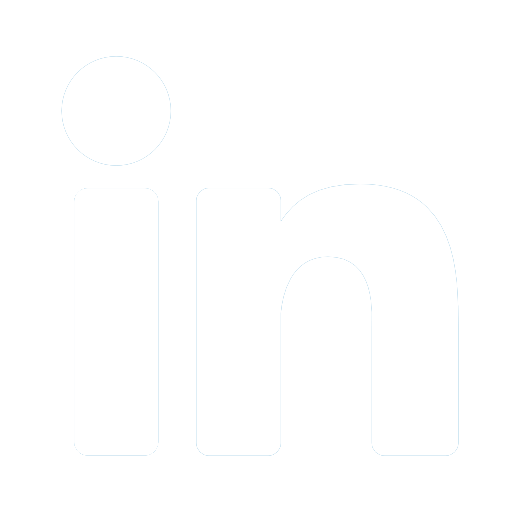
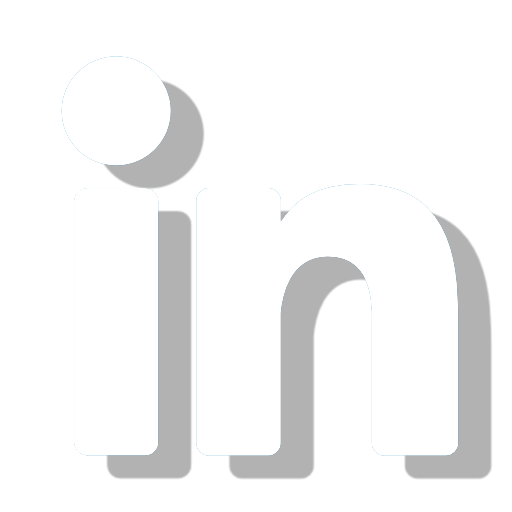
GO

diff --git a/client/src/components/Header/Header.css b/client/src/components/Header/Header.css
@@ -62,7 +62,7 @@
 
         .headerDev{
             display: flex;
-            flex-direction: column;
+            flex-direction: row;
             justify-content: center;
             align-items: center;
             height: fit-content;
@@ -70,10 +70,15 @@
             transition: transform 250ms ease, box-shadow 250ms ease;
             border: 1px solid gray;
             border-radius: 5px;
-            background-color: rgba(255, 255, 255, 0.8);
-            backdrop-filter: blur(10px);
+            background-color: rgba(255, 255, 255, 1);
             padding: 2px;
+            padding-top: 4px;
+            padding-bottom: 4px;
             cursor: pointer;
+        }
+        
+        .headerDev:hover{
+            transform: translateY(4px);
         }
 
             .headerDev h2{
@@ -83,8 +88,11 @@
             }
 
             .headerDev img{
-                height: 15px;
-                width: 15px;
+                height: 18px;
+                width: 18px;
+                margin-left: 2px;
+                margin-right: 2px;
+                text-shadow: 1px 1px rgba(0, 0, 0, 0.5);
             }
 
     .headerWorkDiv{

diff --git a/client/src/components/HeaderLoading/HeaderLoading.css b/client/src/components/HeaderLoading/HeaderLoading.css
@@ -62,7 +62,7 @@
 
     .headerDevFake{
         display: flex;
-        flex-direction: column;
+        flex-direction: row;
         justify-content: center;
         align-items: center;
         height: fit-content;
@@ -70,10 +70,15 @@
         transition: transform 250ms ease, box-shadow 250ms ease;
         border: 1px solid gray;
         border-radius: 5px;
-        background-color: rgba(255, 255, 255, 0.8);
-        backdrop-filter: blur(10px);
+        background-color: rgba(255, 255, 255, 1);
         padding: 2px;
+        padding-top: 4px;
+        padding-bottom: 4px;
         cursor: pointer;
+    }
+
+    .headerDev:hover{
+        transform: translateY(4px);
     }
 
         .headerDevFake h2{
@@ -83,6 +88,9 @@
         }
 
         .headerDevFake img{
-            height: 15px;
-            width: 15px;
+            height: 18px;
+            width: 18px;
+            margin-left: 2px;
+            margin-right: 2px;
+            text-shadow: 1px 1px rgba(0, 0, 0, 0.5);
         }
